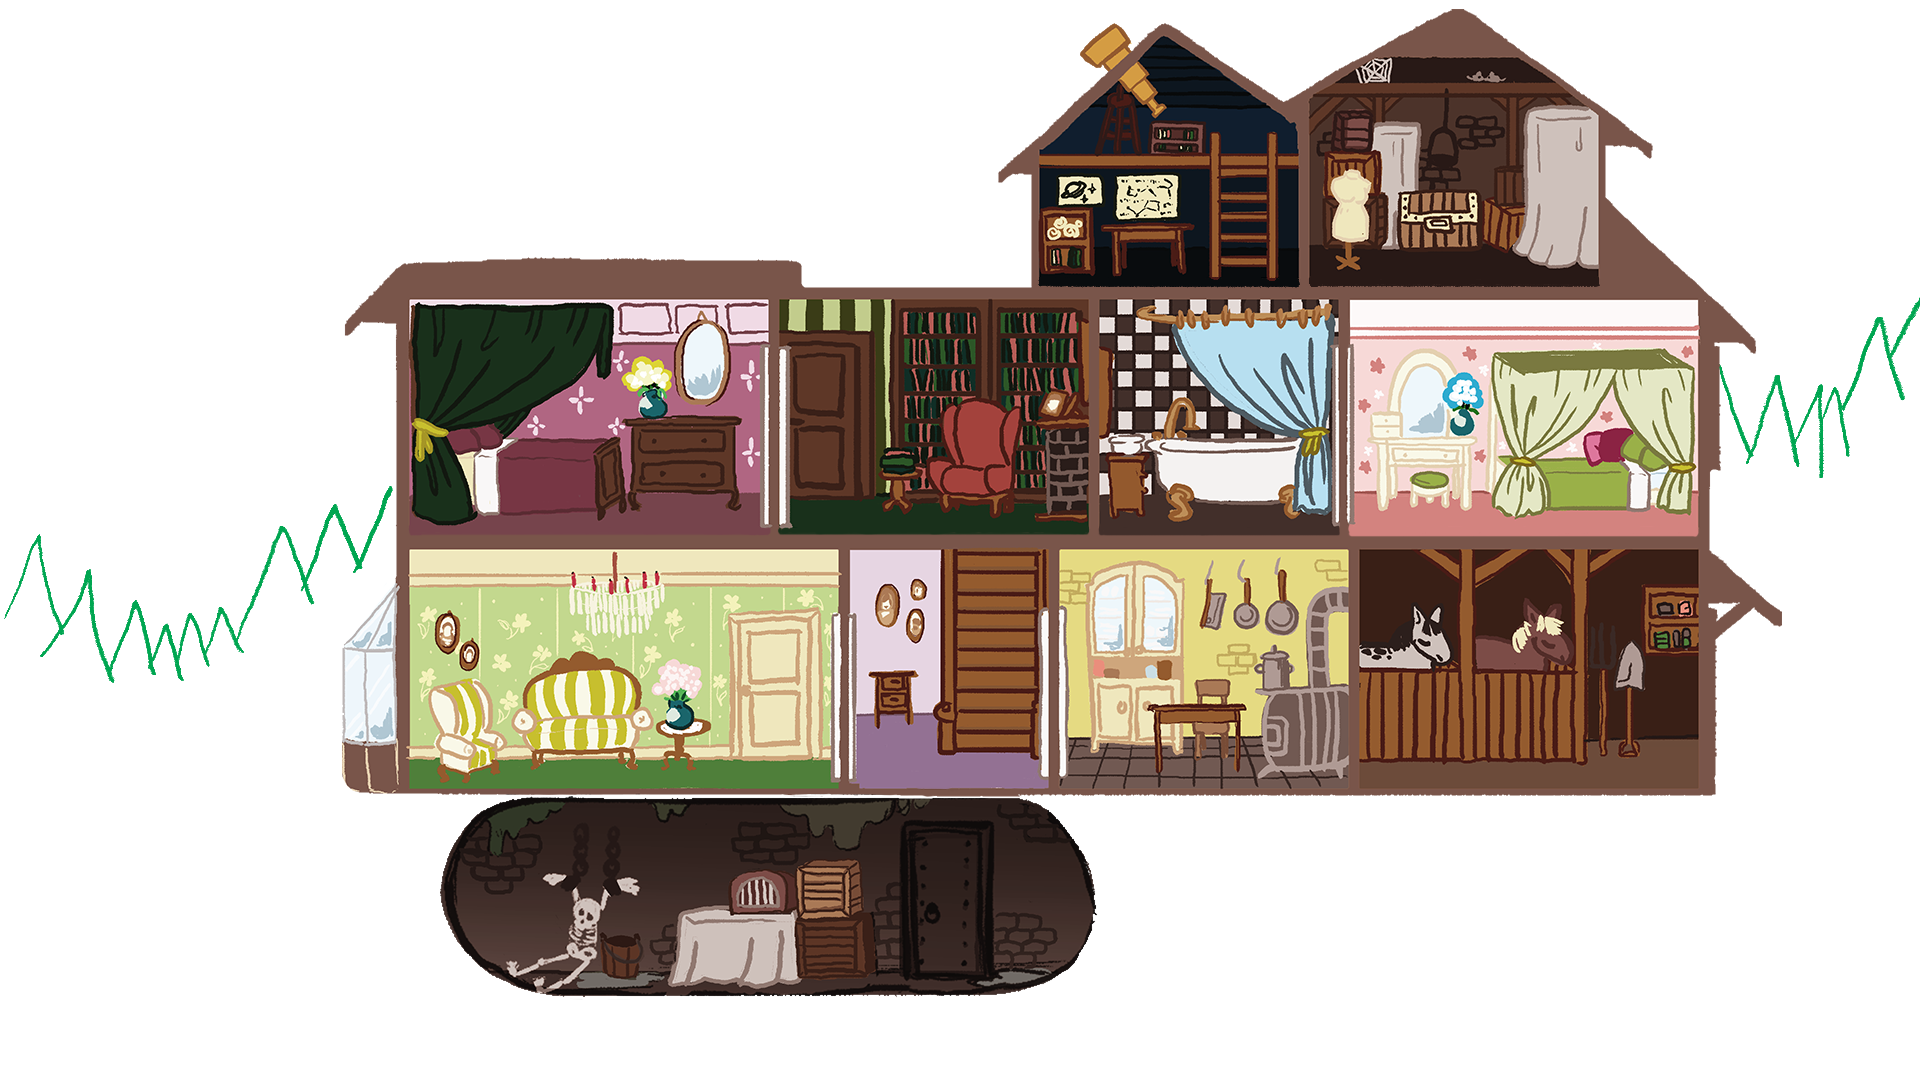
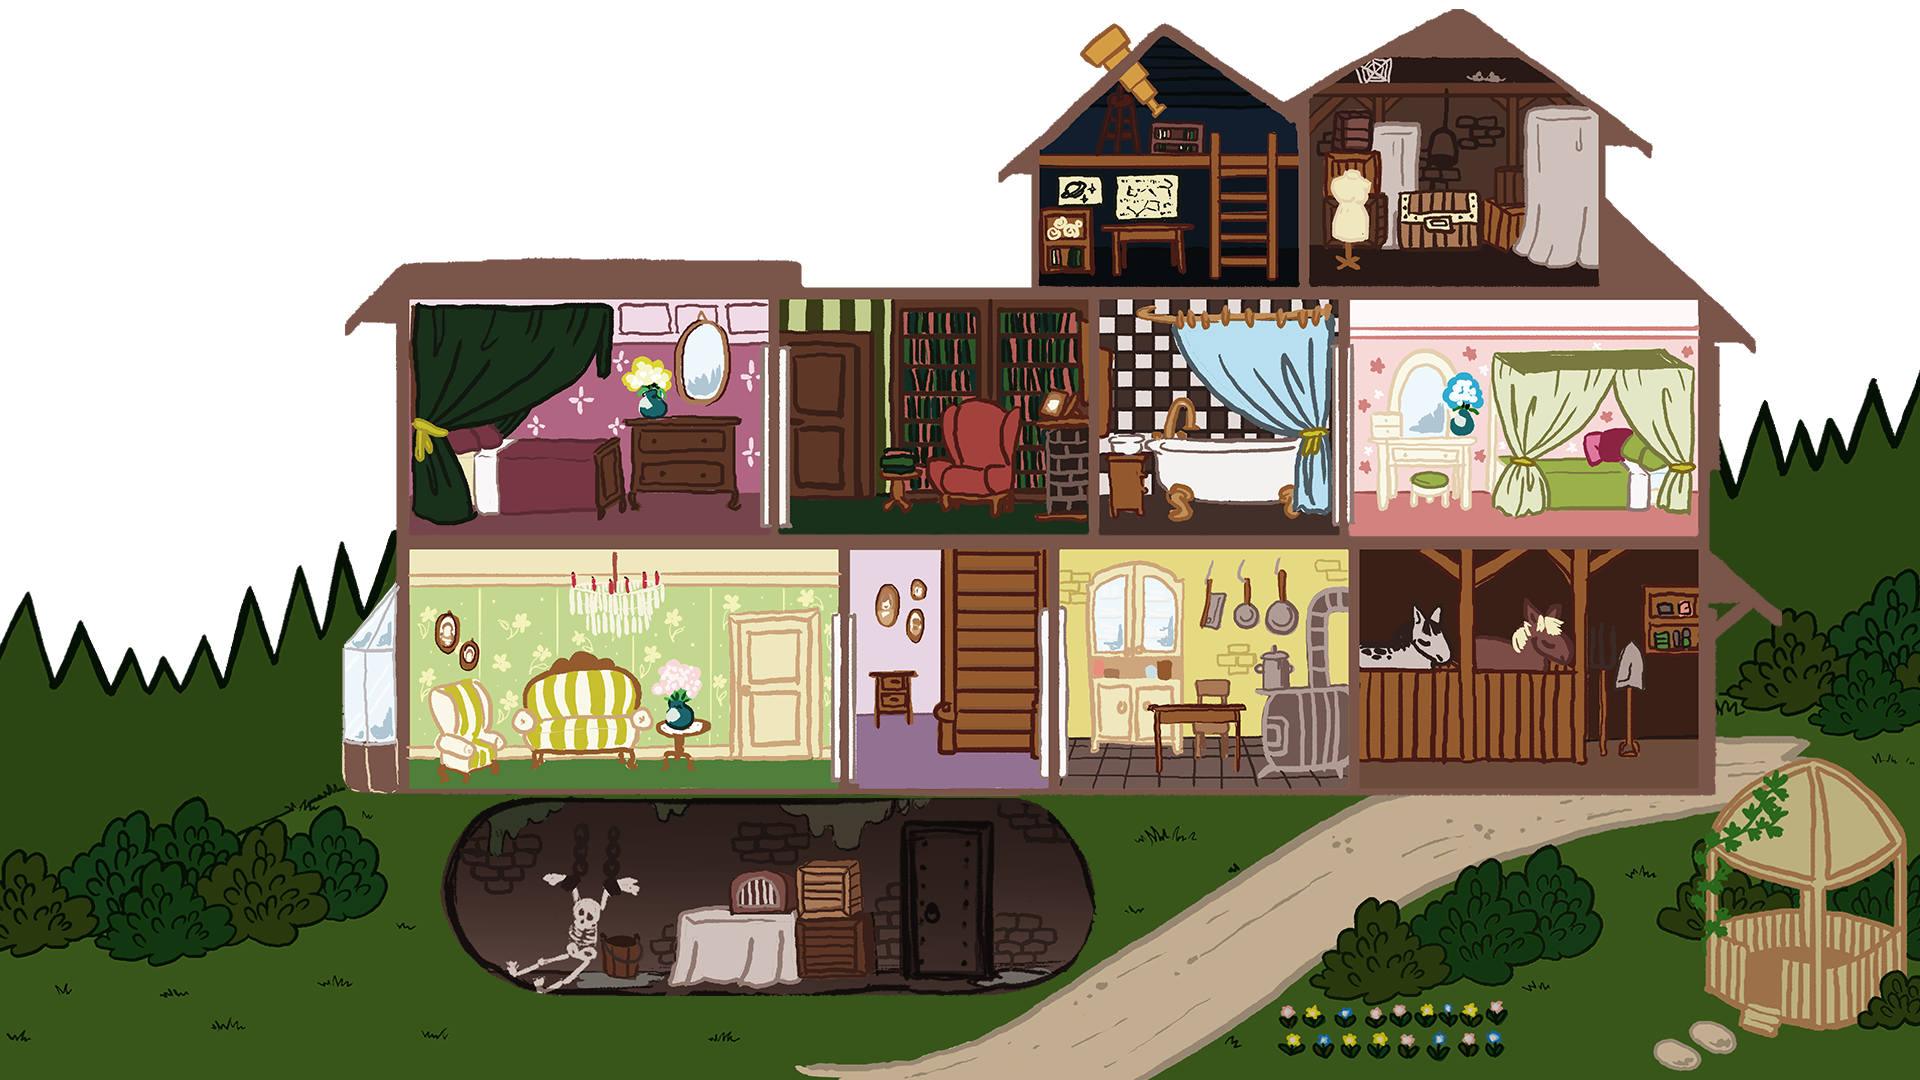
Add in the new house

Changed region(s): [[0.0, 0.275, 1.0, 1.0]]

diff --git a/js/game.js b/js/game.js
@@ -72,7 +72,6 @@ var loadState = {
     this.load.image('sun',  'assets/sun.png');
     this.load.image('moon', 'assets/moon.png');
 
-    this.load.image('treeline',         'assets/treeline.png');
     this.load.image('house-background', 'assets/house-background.png');
     this.load.image('house-foreground', 'assets/house-foreground.png');
 
@@ -192,7 +191,6 @@ var mainState = {
       true
     );
 
-    this.add.image(0, 0, 'treeline');
     this.add.image(0, 0, 'house-background');
   },
 
